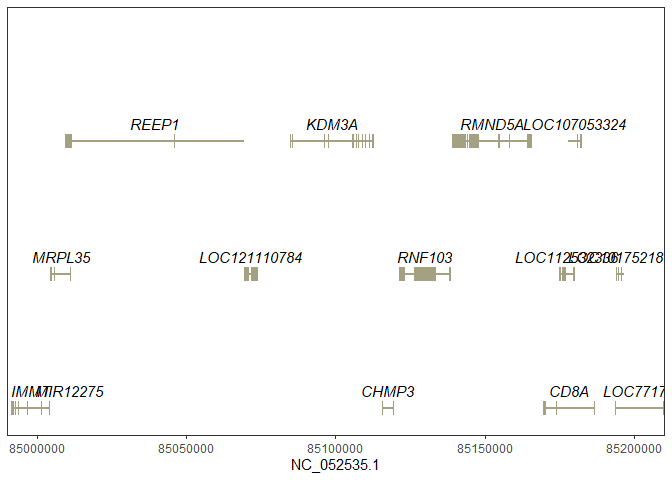
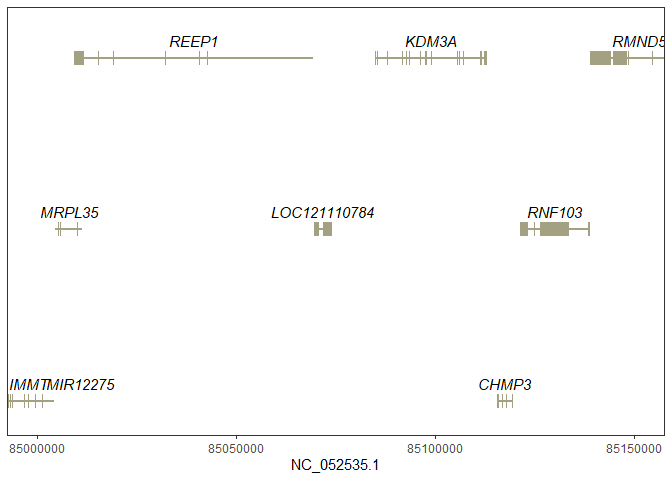
feat: Publish 0.1.0

diff --git a/README.md b/README.md
@@ -69,7 +69,7 @@ Example:
 grcg7br::gggenes(
   chrom = "NC_052535.1",
   from = 85000001,
-  to = 85200001,
+  to = 85150001,
   color = "#A4A082",
   nrow = 3
 )
@@ -84,7 +84,7 @@ region:
 grcg7br::gggenes(
   chrom = "NC_052535.1",
   from = 85000001,
-  to = 85200001,
+  to = 85150001,
   color = "#A4A082",
   nrow = 3,
   label = c("REEP1", "KDM3A")
